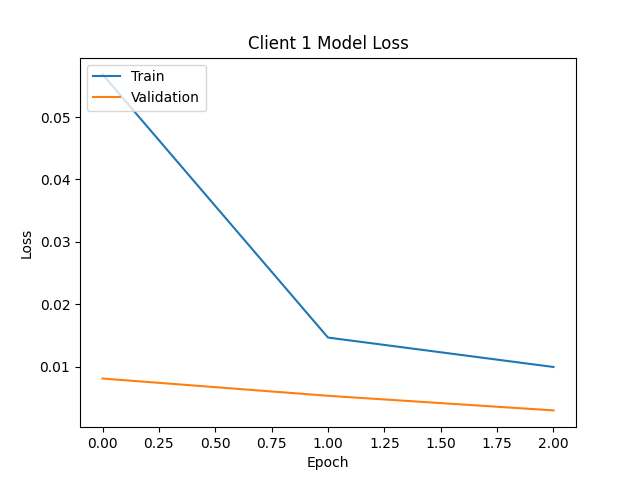
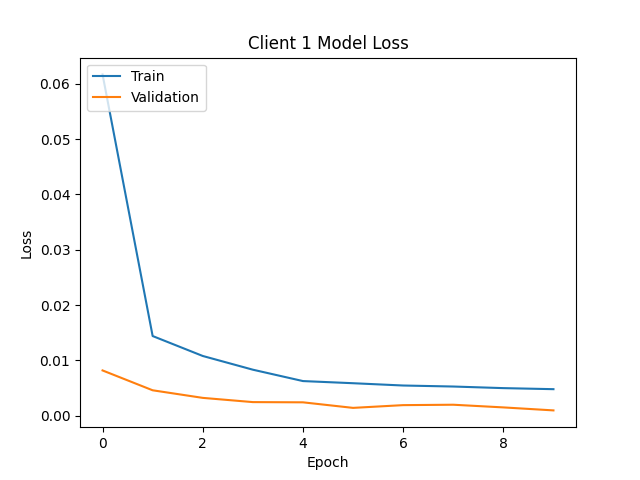
process digram updated

diff --git a/process_diagram.py b/process_diagram.py
@@ -51,6 +51,15 @@ with Diagram("Federated Learning and Blockchain Process", show=False):
         client4 >> aggregate_models
         client5 >> aggregate_models
 
+    with Cluster("Aggregation Methods"):
+        fedavg = Action("FedAvg Aggregation")
+        fedadam = Action("FedAdam Aggregation")
+        hybrid = Action("Hybrid Aggregation")
+        
+        aggregate_models >> fedavg
+        aggregate_models >> fedadam
+        aggregate_models >> hybrid
+
     with Cluster("Blockchain"):
         blockchain = Custom("Blockchain", "./icons/blockchain.png")
         smart_contract = Custom("Smart Contract", "./icons/smart_contract.png")
@@ -58,7 +67,7 @@ with Diagram("Federated Learning and Blockchain Process", show=False):
         aggregate_models >> blockchain
         blockchain >> smart_contract
 
-    with Cluster("Security"):
+    with Cluster("Security Enhancements"):
         anomaly_detection = Custom("Anomaly Detection", "./icons/anomaly_detection.png")
         adversarial_training = Custom("Adversarial Training", "./icons/adversarial_training.png")
         

diff --git a/main.py b/main.py
@@ -60,13 +60,13 @@ def create_model(input_shape):
 clients = [FederatedClient((X_train, y_train), create_model(X_train.shape[1])) for (X_train, X_test, y_train, y_test) in client_partitions]
 
 # Train local models with early stopping
-early_stopping = EarlyStopping(monitor='val_loss', patience=3)
+early_stopping = EarlyStopping(monitor='val_loss', patience=10)
 logger.info("Starting training for federated clients.")
 histories = []
 for client_id, client in enumerate(clients):
     X_train, X_test, y_train, y_test = client_partitions[client_id]
     logger.info(f"Training client {client_id + 1}")
-    history = client.train_local_model(epochs=5, callbacks=[early_stopping], validation_data=(X_test, y_test))
+    history = client.train_local_model(epochs=10, callbacks=[early_stopping], validation_data=(X_test, y_test))
     histories.append(history)
     logger.info(f"Client {client_id + 1} training completed.")
 
